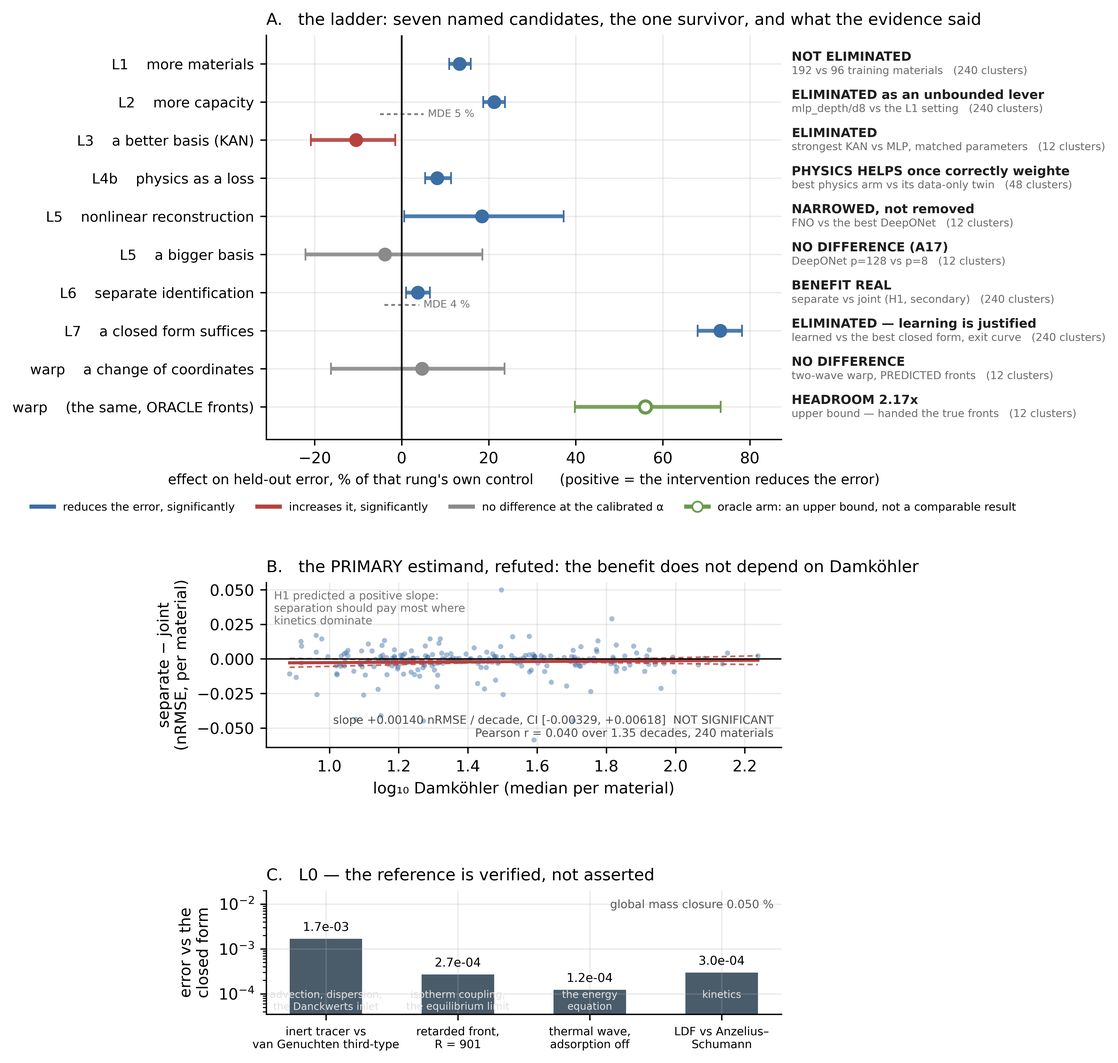
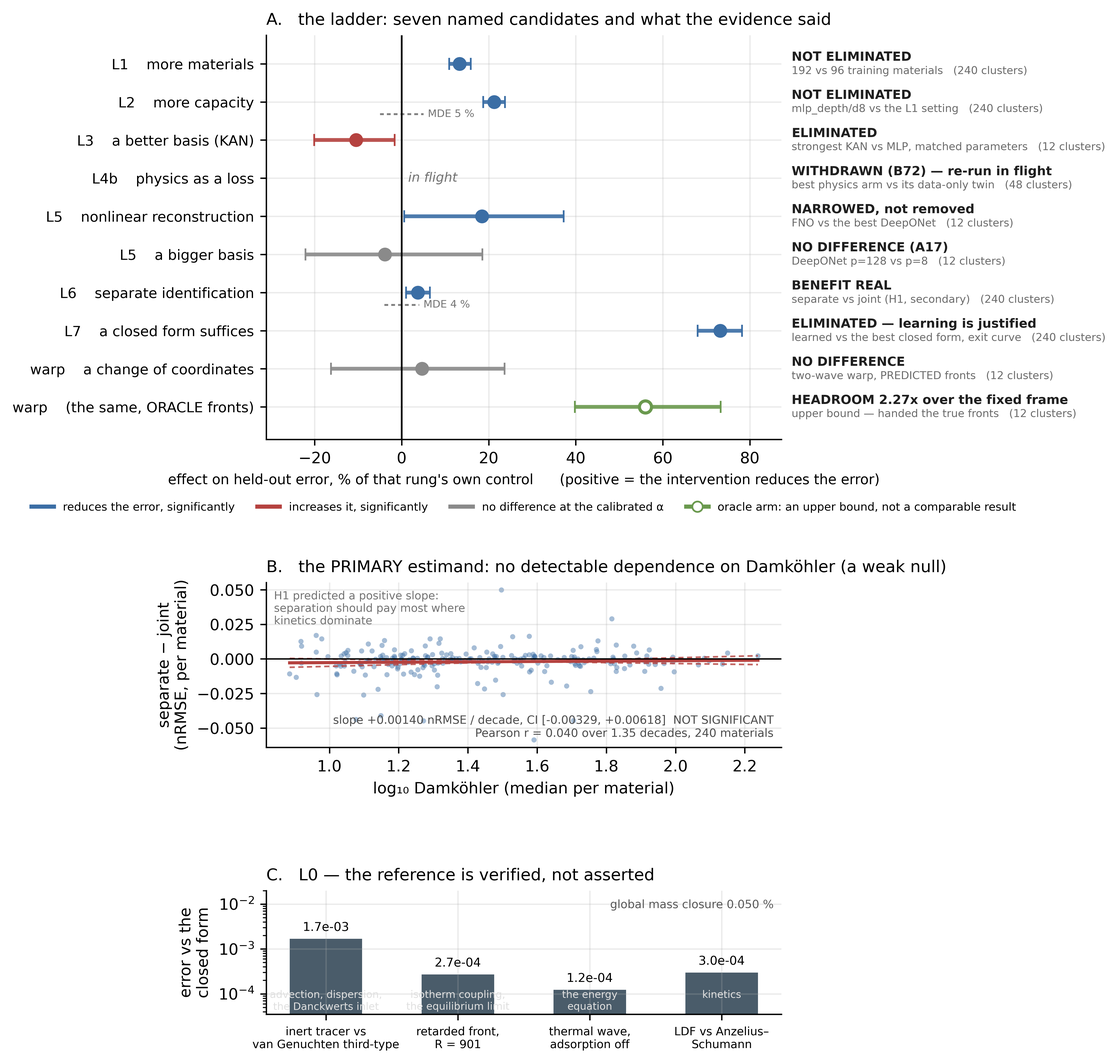
Figure 1 brought in line with the text (round-2 referee): the withdrawn L4 result is no longer drawn; L2 NOT ELIMINATED; no 'one survivor'; Damkohler null worded as a weak null; warp headroom over the fixed frame (2.27x, the text's figure)
The figure gated L4 only on the v2 extension marker, so after A28 it still drew the
withdrawn result as 'PHYSICS HELPS'. It now draws L4 only from the corrected re-run
(l4b_v3, marker L4B_V3_DONE) and shows WITHDRAWN (B72) until then. Labels that
contradicted the text's pre-declared verdicts fixed. Round-2 report committed.

diff --git a/fig_ladder.py b/fig_ladder.py
@@ -118,8 +118,8 @@ def build_rows():
         c, fam = cross[key], l2["best_overall"]
         mde = l2["families"][fam[1]].get("mde_last_step")
         add("L2", "more capacity", f"{fam[1]}/{fam[2]} vs the L1 setting",
-            effect(c, control_is_a=False), "ELIMINATED as an unbounded lever",
-            "every optimum bracketed — but the optimum MOVES with the material count (A26); post-hoc",
+            effect(c, control_is_a=False), "NOT ELIMINATED",
+            "a random forest is still improving at its capacity ceiling; the best configuration is a deeper perceptron (A26, A27)",
             mde=100 * mde["mde_80"] if isinstance(mde, dict) and mde.get("mde_80") else None)
     else:
         missing.append("L2 cross-comparison vs the L1 setting (run analyze_l2_v2.py)")
@@ -135,15 +135,16 @@ def build_rows():
     else:
         missing.append("L3 final pair")
 
-    # L4b — the PDE residual as a loss, on the material axis.
-    ax = (l4 or {}).get("axes", {}).get("material", {})
+    # L4b — the PDE residual as a loss, on the material axis. The v2 results used a residual
+    # that moved the gas at the wrong velocity (B72) and are WITHDRAWN as evidence about
+    # physics (A28): the figure draws ONLY the corrected re-run, once its completion marker
+    # exists. (A first version drew the withdrawn result as PHYSICS HELPS -- caught by the
+    # round-2 referee review.)
+    _mk = "l4b_v3.log"
+    v3_done = os.path.exists(_mk) and "L4B_V3_DONE" in open(_mk, errors="replace").read()
+    l4c = load("results/l4b_v3_verdict.json") if v3_done else None
+    ax = (l4c or {}).get("axes", {}).get("material", {})
     c = ax.get("best_pi_vs_data_only")
-    # Same gate as paper/numbers.py GATED: the material verdict is not final until the
-    # second PREREG 4.2 edge extension (w1e-6) lands; the figure must not draw it.
-    _mk = "chain_l4b_v2_ext2_outer.log"
-    ext2_done = os.path.exists(_mk) and "L4B_V2_EXT2_DONE" in open(_mk, errors="replace").read()
-    if c and not ext2_done:
-        c = None
     if c:
         m = ax.get("mde") or {}
         m80 = next((v.get("mde_80") for v in m.values() if isinstance(v, dict) and v.get("mde_80")), None)
@@ -156,9 +157,9 @@ def build_rows():
         rows.append(dict(rung="L4b", hyp="physics as a loss",
                          inter="best physics arm vs its data-only twin",
                          e=None, lo=None, hi=None, sig=None, n=48, ctrl=None, mde=None, leak=False,
-                         verdict="IN FLIGHT",
-                         note="PREREG_L4b_v2.md: the second edge extension (w1e-6) is running; no verdict yet"))
-        missing.append("L4b-v2 material verdict (second edge extension in flight)")
+                         verdict="WITHDRAWN (B72) — re-run in flight",
+                         note="its residual moved the gas at the wrong velocity; the corrected re-run is queued"))
+        missing.append("L4b: corrected re-run (B72) in flight")
 
     # L5 — nonlinear reconstruction, and basis size.
     if l5:
@@ -183,7 +184,7 @@ def build_rows():
         c = l6["pooled"]                              # a = joint (control), b = separate
         add("L6", "separate identification", "separate vs joint (H1, secondary)",
             effect(c, control_is_a=True), "BENEFIT REAL",
-            "an inductive bias, not a kinetic identifier — the mechanism is refuted in panel B",
+            "no detectable dependence on Damköhler (panel B): a weak null, read as an inductive bias",
             mde=100 * l6m["mde_80"] if l6m else None)
     else:
         missing.append("L6-v2 verdict")
@@ -204,7 +205,7 @@ def build_rows():
             "the n-width collapses 31 -> 13 modes, and none of it survives front-location error")
         add("warp", "(the same, ORACLE fronts)", "upper bound — handed the true fronts",
             effect(warp["fixed_vs_oracle"], control_is_a=True),
-            "HEADROOM %.2fx" % warp["headroom_to_oracle"],
+            "HEADROOM %.2fx over the fixed frame" % (warp["means"]["fixed"] / warp["means"]["two_wave_oracle"]),
             "NOT comparable with any arm not also handed the warp: it sizes the prize, it is not a result",
             leak=True)
     else:
@@ -248,7 +249,7 @@ def panel_ladder(a, rows):
                fontsize=7.3, va="center", fontweight="bold", color="0.12")
         a.text(1.02, f(-0.19), f"{r['inter']}   ({r['n']} clusters)", transform=a.transAxes,
                fontsize=6.2, va="center", color="0.42")
-    a.set_title("A.   the ladder: seven named candidates, the one survivor, and what the evidence said",
+    a.set_title("A.   the ladder: seven named candidates and what the evidence said",
                 fontsize=9.5, loc="left")
     a.legend(handles=[
         Line2D([], [], color=C_MOVES, lw=2.4, label="reduces the error, significantly"),
@@ -289,7 +290,7 @@ def panel_slope(b):
     b.axhline(0, color="k", lw=0.8)
     b.set_xlabel("log₁₀ Damköhler (median per material)")
     b.set_ylabel("separate − joint\n(nRMSE, per material)")
-    b.set_title("B.   the PRIMARY estimand, refuted: the benefit does not depend on Damköhler",
+    b.set_title("B.   the PRIMARY estimand: no detectable dependence on Damköhler (a weak null)",
                 fontsize=9.5, loc="left")
     b.text(0.985, 0.05,
            f"slope {st['slope']:+.5f} nRMSE / decade, CI [{st['ci_low']:+.5f}, {st['ci_high']:+.5f}]  "

diff --git a/audit_2026-10-04/referee_report_round2.md b/audit_2026-10-04/referee_report_round2.md
@@ -1,0 +1,251 @@
+# Referee report, round 2: "What binds a surrogate" (revised manuscript)
+
+Reviewed: `paper/manuscript.tex` (1819 lines), with macros resolved through `paper/numbers.tex`. I read the round-1 report and `REVISION_PLAN.md` and then judged the revision independently. Line numbers refer to `manuscript.tex` unless another file is named. Quotes are kept under 15 words.
+
+"Verified" means I checked the claim against the named source file (results JSON, script or figure). "UNVERIFIED" means I did not.
+
+Known items, not raised again:
+- L5-v2 DeepONet 24k re-run (PREREG_L5_v2 A2)
+- L4 verdicts withdrawn pending re-run (A28/B72)
+- affiliation placeholder
+- venue and length
+
+**Overall.** The revision is substantial and mostly in good faith. The Methods section (l.490-752), the water-MOF placement, the selection-adjusted intervals, the refinement result and the two-wave scoping all fix real problems.
+
+The revision has introduced a new class of defect: the withdrawn L4 result is still used as evidence in several places, and most visibly it is drawn as a significant benefit in the headline figure. Several round-1 fixes were also made in one place but not in the others that repeat the same claim.
+
+Recommendation: minor-to-major revision. The changes needed are mostly text and one figure rebuild, plus one cheap analysis.
+
+---
+
+## 1. Round-1 MAJOR issues: status
+
+| # | Status | Evidence (lines) |
+|---|---|---|
+| M1 mechanism vs operator numbers | **Partially resolved** | The four-learner comparison is now in the abstract, Section 5 and the conclusions (l.49-51, l.1212-1214, l.1722-1727). Two problems remain. (a) l.1198 still calls GB "a strong regressor". (b) l.1073-1076 claims "the reconstruction, not the capacity, separates these families". The paper's own numbers undercut (b): DeepONet (0.0265) beats POD+GB (0.0509) by 1.9x, and both use linear reconstruction. That gap is larger than DeepONet vs FNO (1.23x). See N6. |
+| M2 warp "powered" / FNO matches oracle | **Partially resolved** | (a) "Nothing at all" is gone, and the interval is now stated in relative terms (l.1352-1355). But "powered" survives in the Fig. 6 caption (l.1266) and the subsection title (l.1319). (b) The FNO comparison is now made (l.1360-1361, l.1480-1484). However, it contradicts the new Methods rule "Absolute errors are not comparable across rungs" (l.700). See N5. |
+| M3 selection on the test set | **Partially resolved** | A max-statistic interval is given for L4 and L2 (l.839-841, l.985-993, l.1559-1579). It is not given for the L5 FNO-vs-DeepONet comparison or for the L3 learning-rate choices, although REVISION_PLAN B1 says the L5 adjustment was done: there is no L5 selection macro in `numbers.tex`. Nested selection (C1) is still OPEN. l.1563 also misdescribes the scope (N4). |
+| M4 refinement result unreported | **Resolved** | l.998-1019. The result is now inside the withdrawn rung, and l.1018-1019 over-reads it (N1). |
+| M5 contradictions / stale prose | **Mostly resolved** | Fixed: the "eliminated" list (l.1471-1484); "five modes" (no occurrences left); "the one rung" (l.1088-1091); [PENDING] (l.877); the no-hand-typed claim, narrowed at l.1778-1787. Still hand-typed: results such as "all six pairwise comparisons significant" (l.859) and "\(6/6\)" (l.904). These are not covered by the stated exemptions. |
+| M6 L6 Da null | **Resolved in text, not in the figure** | Text: l.1099-1109, l.1149-1153, l.1709-1712. But the Fig. 1B panel title still reads "the PRIMARY estimand, refuted: the benefit does not depend on Damköhler" (`fig_ladder.py`, verified in `figures/Fig1_ladder.png`). |
+| M7 Methods | **Largely resolved** | l.490-752. Still missing: the L1/L2 perceptron architecture, learning rate, epochs and early-stopping rule. The only architecture statement is in the cost section, "three 256-unit layers" (l.1419-1420). The L1 "field subsampled" resolution is not given (l.718). The legacy dataset's ranges are given only as differences (l.586-590). |
+| M8 three designs; L4/L7 in abstract | **Partially resolved** | Fixed: l.690 now says "Three evaluation designs", and the abstract names all three (l.43-44). But l.456 still says "Two designs, two levels, both stated", and l.458 assigns L5 to the legacy design, while Table 2 runs "L5 basis vs. map" on the five-fold design (l.736). |
+| M9 L2 optimum moves | **Resolved in L2, reintroduced in the conclusions** | Fixed at l.849-853. Reintroduced at l.1699-1700: "with an optimum that moves with the number of training materials". |
+| M10 framing / prior art / real MOFs | **Partially resolved** | Fixed: the title (l.29-31), the ROM/PSA prior art (l.156-167; bib keys verified present) and the water-MOF placement (l.592-622). Still open: "unseen materials" survives in the keywords (l.62), and "We find no operator-learning study ... held-out materials" (l.172-173) still rests on the relabelling. |
+| M11 missing baselines | **Not resolved** | There is still no GP, no coarse solver and no fitted L7 (C2-C4 OPEN). The cost section now measures the query cost r (l.1424-1427), which answers round-1 minor 11 only. The abstract (l.53) still says "closed forms are 3.73 times worse than learning" without saying the closed forms are un-fitted. |
+| M13 weak anchor | **Partially resolved** | The wording is fixed: "compared", "an anchor and not a validation" (l.41-42, l.202-205). The second anchor is blocked (C5). |
+| M12 two-wave on v2 | **Resolved** | l.343-350, l.1676-1685. |
+| M14 FNO margin fragile | **Partially resolved** | l.1059-1062 now calls the margin "marginal". But l.1063 still says "It is the direction the theory predicts", and Fig. 1A labels it "NARROWED, not removed" as a significant blue bar. No selection-adjusted interval is given. |
+
+---
+
+## 2. New issues introduced or exposed by the revision
+
+### N1. The withdrawn L4 results are still used as evidence (verified)
+This is the most serious new problem.
+
+**(a) Fig. 1A, the headline figure, draws L4b as a significant benefit.**
+- What the figure shows: a blue bar at about +8 %, labelled "PHYSICS HELPS once correctly weighte[d]" (truncated), in `figures/Fig1_ladder.png`.
+- Why: `fig_ladder.py:138-153` gates only on the `L4B_V2_EXT2_DONE` marker. That marker is present in `chain_l4b_v2_ext2_outer.log` (count 1). The script has no A28 or withdrawal handling.
+- Timing: the PNG/PDF are timestamped 13:40 on 2026-10-04, which is after the A28 commit (18123e7, 12:55). So the figure was rebuilt after the withdrawal and still draws the result.
+- Fix: draw the L4b row as "WITHDRAWN (A28), re-run pending", with no bar. Add a test that fails if any withdrawn rung draws a bar.
+
+**(b) l.994-996 still interprets the withdrawn result.**
+- Quote: "the reading we defend is the modest one --- the residual is a weak regulariser".
+- l.993 also says "the effect survives its own selection".
+- Both contradict l.926-928 ("none of it may be read as physics helps").
+- Fix: delete both sentences, or restate them as "the residual this rung used".
+
+**(c) l.1018-1019 generalises beyond the withdrawn residual.**
+- Quote: "pulls the prediction away from the data rather than towards the physics".
+- Two lines earlier the text says the result is "no evidence about the right one".
+- Fix: delete the sentence.
+
+**(d) l.1563-1574 uses L4 as the showcase for the selection correction.**
+- l.1563-1564: "For the one positive result that rests on such a choice".
+- l.1573: "The L4 result survives it".
+- Fix: lead with L2 as the worked case, and mention L4 only as a pending application of the procedure.
+
+**(e) l.961-968: interpretive reading of the withdrawn polishing result.**
+- Quote, l.968: "under the optimiser the physics arm needs, the data-only arm gains more".
+- Fix: report the polished numbers without the reading.
+
+### N2. Fig. 1 labels contradict the text on three rungs (verified in the PNG)
+- **L2.** The figure says "ELIMINATED as an unbounded lever". l.828 says "capacity is NOT ELIMINATED".
+- **Title.** "seven named candidates, the one survivor": l.1475 and l.1697 list at least two levers that are not eliminated.
+- **Warp.** The figure says "HEADROOM 2.17x" (`\nWarpHeadroom`, against predicted fronts). The text's headline is 2.27x against the fixed frame. l.1347-1349 says explicitly that 2.27x is the quantity the reader wants.
+
+Fix: regenerate the labels from the same pre-declared verdict strings the text uses, and plot 2.27x.
+
+### N3. "Two designs" survives next to "Three evaluation designs" (verified)
+- l.456: "Two designs, two levels, both stated".
+- l.690: "Three evaluation designs are used".
+- l.458 puts L5 on the legacy design; Table 2 l.736 runs "L5 basis vs. map" on the five-fold design.
+- l.1668-1670 ("Three rungs ... smaller dataset") omits the 48-material split.
+
+Fix: rename the paragraph at l.456 to "Three designs, their levels"; add the single split; say "L5 operators" at l.458.
+
+### N4. "The one positive result that rests on such a choice" is false (l.1563)
+Other positive results also rest on best-of-grid selection on the held-out materials:
+- the FNO "significantly better" (l.1057; both arms are grid minima, `analyze_l5_fno.py`);
+- the L3 6/6 (each family at its best learning rate);
+- the L3 best-KAN audit pair, where "the better of two higher learning rates per seed" (l.873) is again test-set selection (UNVERIFIED in code).
+
+Fix: apply the same studentised max-statistic bootstrap to FNO vs DeepONet over the full grid of both arms. This is cheap and runs on the existing per-sample errors. Then rewrite l.1563 to list every affected comparison.
+
+### N5. Cross-rung comparison against the new Methods rule (l.700 vs l.1360-1361, l.1480-1484)
+- l.700 says "Absolute errors are not comparable across rungs", and Table 2 lists L5 and Warp as different rows.
+- l.1360 and l.1480 then compare FNO 0.0216 with the oracle warp 0.0220.
+
+I checked the code. The comparison appears legitimate:
+- `warp_verdict.py` and `run_l5.py` both use the 128x128 subsample of c (`comoving.py:51`: "identical to run_l5.subsample()").
+- Both use the legacy split.
+- Whether the `nrmse` functions are identical is UNVERIFIED.
+
+The paper does not say any of this. Fix: add a footnote to Table 2: "L5 and Warp share one encoding (128x128 c, same split); their absolute errors are directly comparable". Or remove the comparison.
+
+### N6. "The reconstruction, not the capacity, separates these families" is undercut by the paper's own table (l.1073-1076 vs l.1722-1727)
+- Two linear-reconstruction methods, POD+GB (0.0509) and DeepONet (0.0265), differ by 1.9x.
+- Linear vs nonlinear reconstruction (DeepONet vs FNO) differs by 1.23x.
+- So most of the 2.4x "learner lever" is a property of jointly trained versus per-mode regression, not of nonlinear reconstruction.
+
+This also changes the abstract's framing at l.50-51, which credits the 2.4x to the FNO.
+
+Fix:
+- Rephrase l.1073-1076 as "at matched parameters, with a fraction of the channels".
+- In the abstract, state that DeepONet already captures 1.9x of the 2.4x.
+
+### N7. The POD floor is called a "bound" for the FNO (l.1066, l.1704-1706, l.1728-1729)
+- Quotes: "a bound 43x below it is a dent" (l.1066); "still sits 43x above what the basis could represent" (l.1729).
+- l.1052-1053 itself says the FNO "escapes that bound through nonlinear reconstruction". The p=128 POD floor is therefore a reference level for the FNO, not a lower bound.
+
+Fix: say "43x above the p=128 linear-reconstruction floor, a reference level the FNO is not bound by".
+
+### N8. Stale text that contradicts the revised conclusions
+- **l.1376-1377.** "the remaining headroom is raw predictive accuracy, which points at material count rather than at architecture". The revised l.1480-1484 and l.1736-1738 now say the learner is a lever as large as materials. Fix: "...points at the front predictor: more materials or a better learner".
+- **l.188-189.** "we trace it to a measurable physical cause". The n-width cause is withdrawn (A17, l.1248), and the two-wave cause is scoped to legacy (l.347-350). Fix: delete the phrase, or name the cause and its scope.
+- **l.1506 vs l.1536.** "three of them reversed headline verdicts" against the heading "Four that reversed a headline", which then lists five items (B69, B72/A28, A17, A22, A25). Fix: count once and use one number.
+- **l.1455-1457.** "the surrogate is the only option that finishes". This is unsupported on the paper's own numbers: 16.6 worker-s per solve (`\nCostSolveSec`) means 10^5 solves is about 460 core-hours, which is feasible. Fix: "the option that finishes soonest, at 3.5 % nRMSE", until the coarse-solver baseline (M11a) exists.
+- **l.1028.** The heading "L5 --- you need an operator" reads as a finding, while the rung's result is that operators dent but do not escape. Fix: "L5 --- does an operator remove the wall?".
+
+### N9. Number and definition mismatches
+- **13 vs 17 modes at 192 training materials** (l.812 / l.1233 vs l.1227).
+  - The learning curve says 13 modes clear R^2 > 0.2 at 192 materials.
+  - The v2 bottleneck says "about 17" at the same 192 training materials per fold.
+  - The difference is regressor and basis (MLP at 64 modes vs GB at p=128), but no sentence reconciles them.
+  - Fix: one sentence naming the regressor and basis for each.
+- **"Best of 26 configurations" (l.840) vs "28 configurations" (l.819).**
+  - `l2_v2_selection.json` has k = 26, reference mlp_depth/d3; the gap is presumably the duplicated L1 configuration (l.1791). Fix: say so.
+- **Damköhler definition clash.**
+  - Glossary l.117-118: "ratio of the adsorption-kinetics rate to the time scale". This is dimensionally confused (a rate times a time is not a ratio of these), and it says large Da means near-equilibrium.
+  - Methods l.572-577: Da = k_LDF t_final, which carries the horizon-extension factor for 52 % of runs. So a large Da can mean a long horizon rather than fast kinetics.
+  - Fix: glossary "product of the kinetic rate constant and the simulated duration (Section 4)", and note the extension caveat in the L6 scope paragraph (l.1111-1128).
+- **"Material" defined as 11-D** (l.163-164).
+  - Quote: "a 'material' is a point in an eleven-dimensional space of isotherm, kinetic and bed parameters".
+  - Table 1 (l.635-648) has 8 material plus 3 operating parameters; kinetics are derived, not sampled (l.417-419, l.542-548); and l.582-584 crosses materials with conditions.
+  - Fix: "a material is a point in an eight-dimensional space (Table 1); a sample adds three operating conditions".
+- **L4 refinement sweep sign** (l.1015). The quote "best change found ... is -0.2 %" has no sign convention: is -0.2 % an improvement or a degradation? (UNVERIFIED which.) Fix: say "a 0.2 % reduction" or "increase".
+
+### N10. Notation clashes
+- **`n` has four meanings:**
+  - cooperativity exponent (eq. 1, Table 1);
+  - number of training materials (n^-0.222, l.45, l.797);
+  - mode count (n-width, n^-2.45, l.1239);
+  - number of screening queries (eq. 10, l.1409).
+
+  Fix: n for the Sips exponent; N_mat, k (modes) and N_q.
+- **ε_t is called both "bed porosity" (Table 1, l.643) and "total porosity" (l.1658).**
+  - This is not cosmetic. If ε_t is total porosity (including intraparticle porosity), then the solid term (1-ε_t)ρ_p in eqs. 3 and 5, with ρ_p the *particle* density, double-counts the pellet void.
+  - Fix: define ε_t once (interbed vs total) and check eqs. 3-5 against it.
+- **Velocity.** v is superficial in Methods (l.502), but Limitations writes D_L = 0.7 D_m + 0.5 d_p u (l.1593) with u undefined; Methods uses v/ε_t (l.541). Fix: define u = v/ε_t once.
+- **R** is both the retardation factor (Table l.258) and the gas constant (l.305). Use R_f for the retardation factor.
+- **Inlet condition wording (l.524-528).** The prose says "the inlet face carries no dispersive ... flux", but the displayed equation contains -D_L ∂c/∂z. Fix: "the total flux entering equals the feed's advective flux".
+
+### N11. Claims about MOF chemistry that a reticular chemist would dispute
+1. **l.287-288.** "Water uptake ... is negligible until a threshold relative humidity".
+   - This contradicts the paper's own f_H range of 0.03-0.25 (Table 1) and the MOF-303 Henry plateau at 0.267 of feed (l.379).
+   - It also contradicts the anchor finding that the model holds *too little* water below the step (l.1653-1654).
+   - Fix: "small below a threshold RH (up to a quarter of capacity in some frameworks), then...".
+2. **l.316-317.** "``Type~V'' is likewise our own label on IUPAC grounds; the modelling literature calls this family Type~IV."
+   - "Type V" appears nowhere else in the manuscript (grep), so "likewise" refers to nothing.
+   - The Type IV attribution is uncited.
+   - Most MOF water papers describe MOF-303/MOF-801/CAU-10 isotherms as S-shaped, Type V (IUPAC 2015); Type IV is used for mesoporous frameworks (e.g. MIL-100/101).
+   - Fix: "S-shaped (IUPAC Type V) isotherm, as for MOF-303 [cite]", and drop the Type IV clause.
+3. **Table 1, ΔH from -60 to -38 kJ/mol.**
+   - With q_st = -ΔH + RT (l.306), the upper end gives q_st of about 40.5 kJ/mol, which is below water's enthalpy of vaporisation (about 44 kJ/mol at 298 K).
+   - Physisorptive pore filling of water in these frameworks is reported at or above the latent heat (roughly 45-60 kJ/mol).
+   - Fix: either justify the lower edge or note that part of the sampled space is unphysical for water (reviewer judgement; the literature values were not checked here).
+4. **l.594-595: placement on four axes omits the cooperativity exponent n.**
+   - n (step steepness) is the single most diagnostic framework property for a harvester.
+   - Fix: add n from the cited isotherms, or say why it was not placed.
+5. **l.520-521 vs l.305 and l.1655-1656: what a "material" is.**
+   - The cluster affinity is "set per run so that the cooperative step sits at the material's step humidity at the feed temperature".
+   - So the same "material" has a different b_C0 at each feed temperature. Its isotherm family is not a fixed object across conditions, which a chemist will read as "one material" in Table 1.
+   - Fix: state this explicitly in the Methods and in Table 1's caption, and in the l.1655 limitation (the step RH is invariant across T_in by construction).
+
+### N12. Smaller items
+- **l.1059 vs l.1057.** "The margin is marginal" immediately follows "significantly better". Fix: "is better (interval excludes zero by a margin that is small next to either error)".
+- **Abstract l.43-44.** It promises "with the design it rests on" for each verdict, but L3, the FNO 2.4x and the warp 2.27x (all legacy) are not labelled, while the 90x floor drop next to them is v2. Fix: add "(12-material legacy design)" after the L3, FNO and warp clauses.
+- **Abstract l.53.** Fix: "un-fitted closed forms are 3.73 times worse".
+- **l.243, l.481, l.985, l.1229.** Lab-notebook register remains: "A 1982 bulletin predicted the defect", "has the scar to prove it", "rather than leave for a referee", "which we learned the hard way". Fix: cut.
+- **Fig. 1C.** It mixes absolute errors and fractional errors on one log axis (the tracer is "abs", the others are %). Fix: label units per bar.
+
+---
+
+## 3. Clarity for a materials-chemistry reader (e.g. the Yaghi group): the five places most likely to lose them
+
+1. **Abstract, l.45-51.** "the basis floor falls 90x with basis size while the parameter-to-coefficient map moves 0.9 %: the map binds, not the basis" means nothing to a chemist, and no absolute accuracy is ever stated.
+
+   *Rewrite:* "The surrogate predicts a breakthrough field to about 3 % (nRMSE) for a framework it has not seen. Its error is limited by how well it learns the link from isotherm and pellet properties to the shape of the breakthrough, not by its ability to draw that shape: improving the drawing ninety-fold changes the error by under 1 %."
+
+2. **Section 3.2, l.321-334, Henry region in concentration fractions.** The quotes "reaches 10^-0.9 of the feed at best" and "K_H ... mol/kg per mol/m^3" use units a chemist does not use.
+
+   *Rewrite* in relative humidity and g/g: "For a median material the near-linear uptake regime ends at about 1 % of the feed humidity; for a third of materials it ends below 10^-6 of it, so in practice they show no linear region at all."
+
+3. **Methods, l.519-522 and Table 1: what a "material" is.** A chemist reads "material" as a framework. Here it is eight numbers, one of which (the step) is re-anchored per operating temperature, and capacity is given in mol/kg.
+
+   *Rewrite* the Table 1 caption: "A 'material' here is a set of eight numbers describing an idealised framework pellet (the isotherm's capacity, step position, steepness, low-humidity fraction and heat, plus pellet size, density and packing). Capacity 8-30 mol/kg corresponds to 0.14-0.54 g water per g. The step is re-anchored at each feed temperature so that it sits at the stated relative humidity."
+
+4. **Sections 4.5 and 5, l.1028-1256: DeepONet, FNO, oracle rank, n-width.** These are four new concepts in two pages with no picture.
+
+   *Rewrite:* open Section 5 with a three-sentence plain-language summary and one schematic.
+
+   > "Every model here builds a breakthrough field either as a sum of stored template shapes (DeepONet, POD + regressor) or by learning the field directly (FNO). We ask whether the templates or the recipe for mixing them limits accuracy. The recipe does: perfect templates would be fifty times better than any recipe we can learn."
+
+5. **Statistics, l.448-487 and l.673-686: "calibrated α", "empirical size", "percentile cluster bootstrap", "MDE".**
+
+   *Rewrite:* add one boxed paragraph.
+
+   > "Several breakthroughs share one material, so they are not independent. We therefore resample whole materials. We set the significance threshold so that, in simulations where no real effect exists, we falsely claim one at most 2-5 % of the time. For each 'no difference' we state the smallest effect the test could have detected."
+
+---
+
+## 4. The three highest-value remaining changes before a preprint
+
+1. **Purge the withdrawn L4 from evidence, and rebuild Fig. 1 from the text's own verdicts.**
+   - Fix N1(a)-(e) and N2.
+   - Add a figure-level gate: a withdrawn rung draws no bar, labels come from the pre-declared verdict strings, and the Fig. 1B title is softened to match l.1099-1109.
+   - As it stands, the first figure a reader sees displays a withdrawn positive result, a capacity verdict opposite to the text's, and a refuted Damköhler dependence. A referee who opens the PDF at Fig. 1 will stop trusting the paper there.
+
+2. **One consistency pass on every claim the revision changed in only one place.** This is text only, about a day's work:
+   - "Two designs" (l.456)
+   - "powered" (l.1266, l.1319)
+   - the L2 optimum in the conclusions (l.1699)
+   - "points at material count" (l.1376)
+   - "physical cause" (l.188)
+   - three vs four reversals (l.1506/l.1536)
+   - 13 vs 17 modes
+   - 26 vs 28 configurations
+   - "material = 11-D" (l.163)
+   - the Damköhler glossary
+   - ε_t and n notation
+   - "the reconstruction, not the capacity" (N6)
+   - the POD floor called a bound for the FNO (N7)
+   - "only option that finishes" (l.1455)
+   - the Type V sentence and "negligible below the step" (N11)
+   - the L5/warp shared-encoding footnote (N5)
+
+3. **Close the selection gap on the remaining positive results, and run the cheapest missing baseline.**
+   - Apply the existing max-statistic bootstrap to FNO vs DeepONet and to the L3 learning-rate selections (N4). This uses existing per-sample errors and is minutes of CPU.
+   - Queue the already-implemented GP-on-POD regressor (C2). It directly tests whether the 1.9x gap between POD+GB and DeepONet is a property of the per-mode regressor, which is now the paper's central mechanistic claim (N6).
+   - If CPU allows, a coarse-grid solve at matched nRMSE (C3) would replace the near-tautological break-even with a decision-relevant one.
